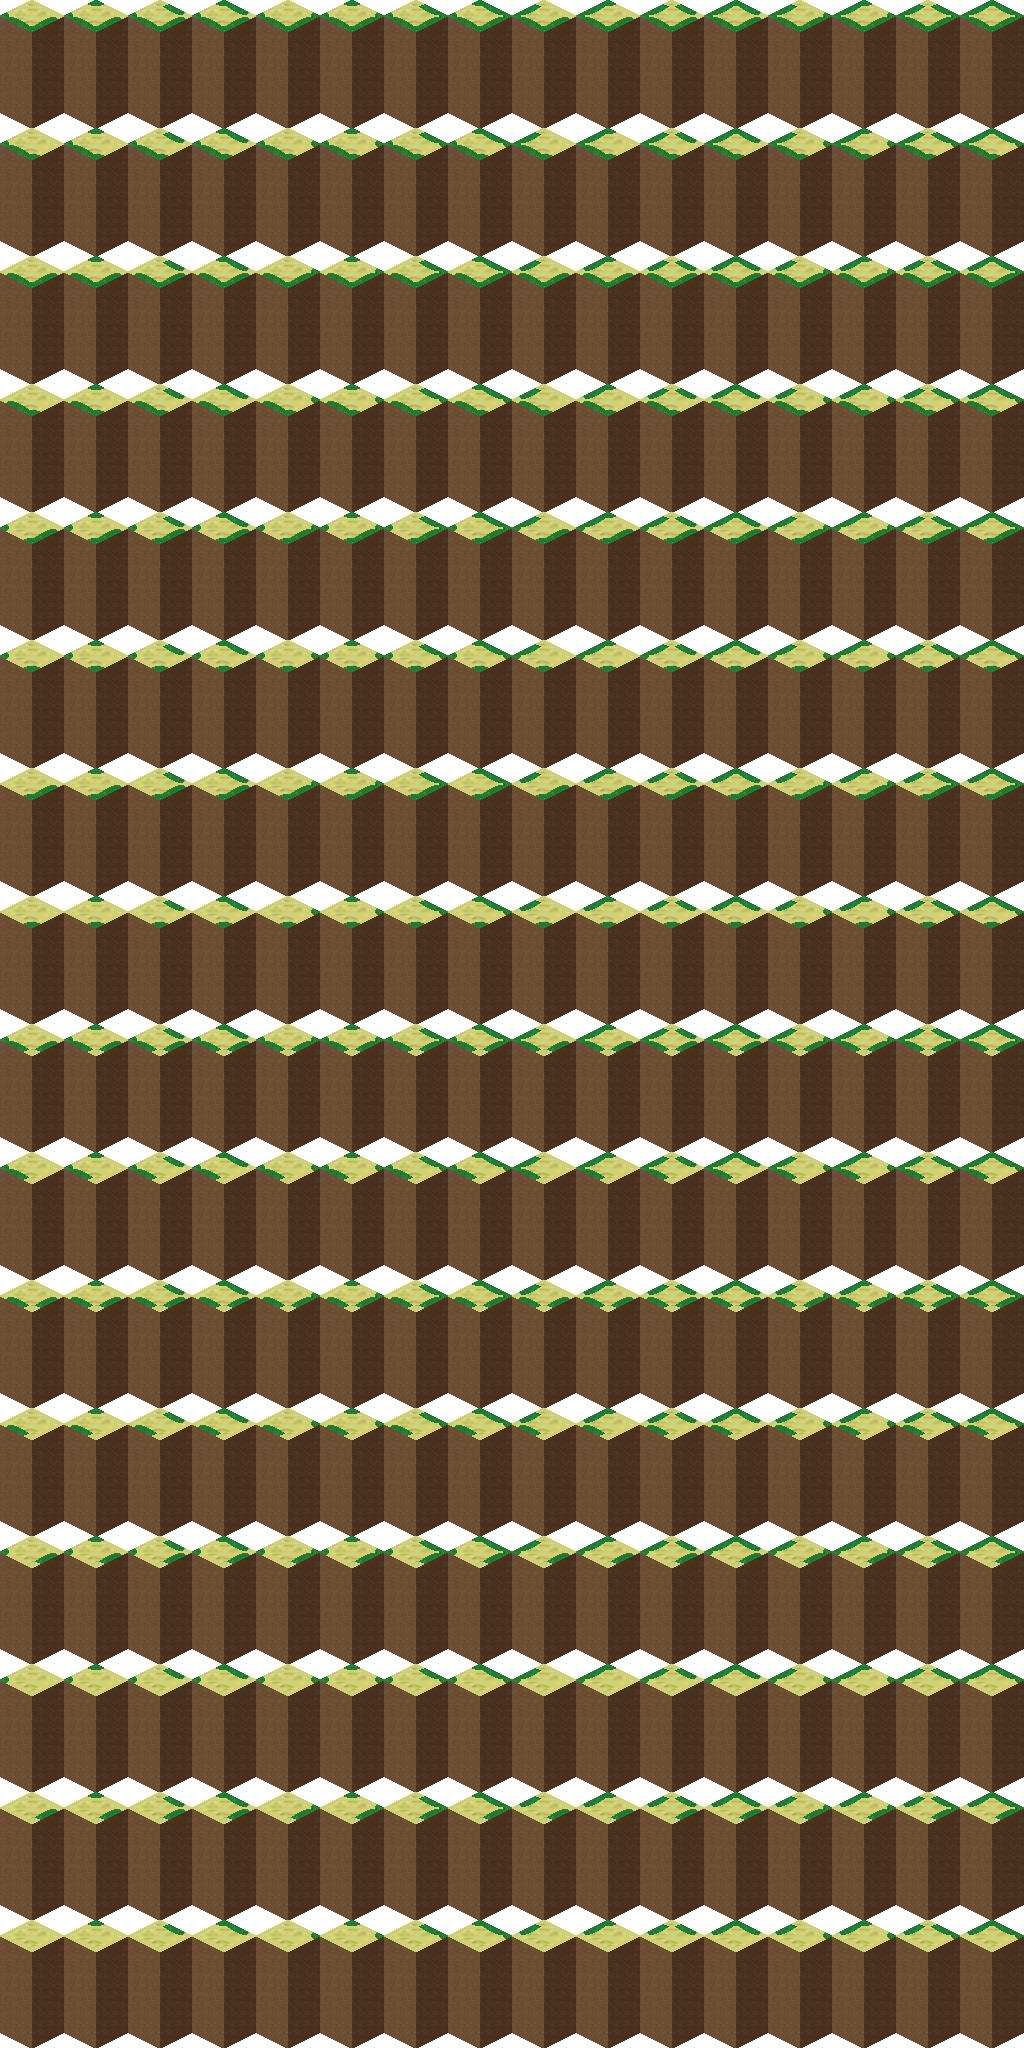
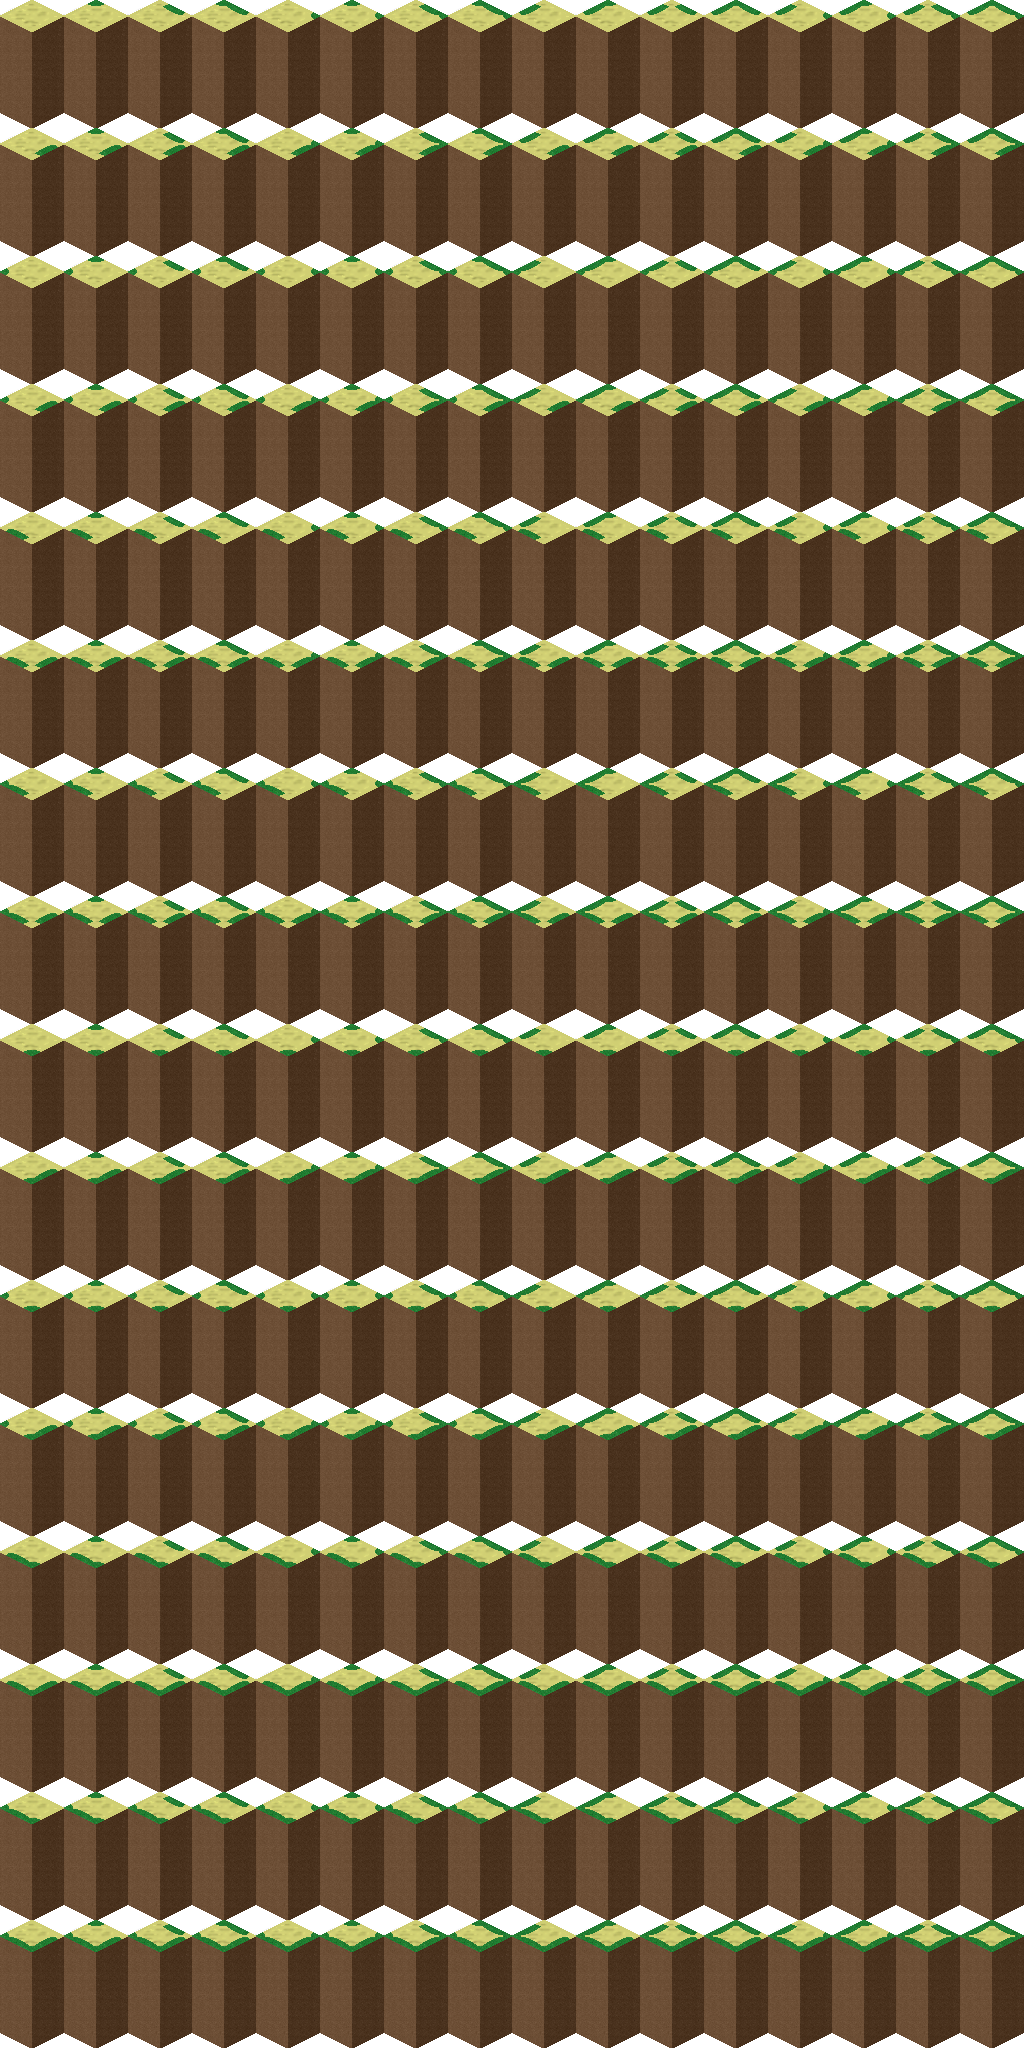
upside down image fixed

diff --git a/groundTilemapGenerator/main.cpp b/groundTilemapGenerator/main.cpp
@@ -88,12 +88,14 @@ void createEndResult() {
         }
         x = x * 64;
         y = y * 128; 
+        tResult[spriteId].display();
         result[spriteId].setTexture(tResult[spriteId].getTexture());
         result[spriteId].setPosition(x, y);
         tEndResult.draw(result[spriteId]);
     }
-    tEndResult.getTexture().copyToImage().saveToFile("output/tada.png");
+    tEndResult.display();
     endResult.setTexture(tEndResult.getTexture());
+    tEndResult.getTexture().copyToImage().saveToFile("output/tada.png");
 }
 
 int main()
